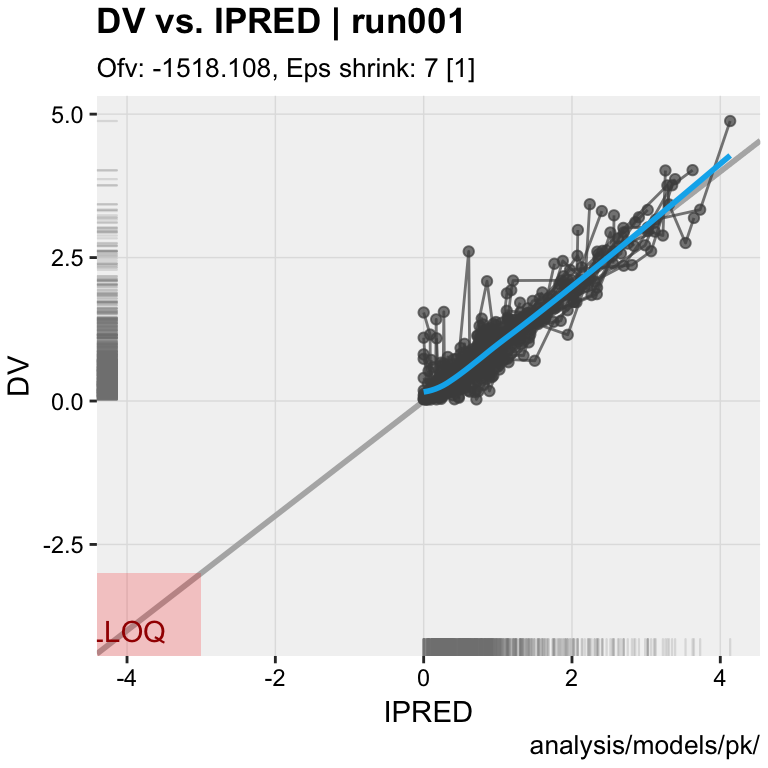
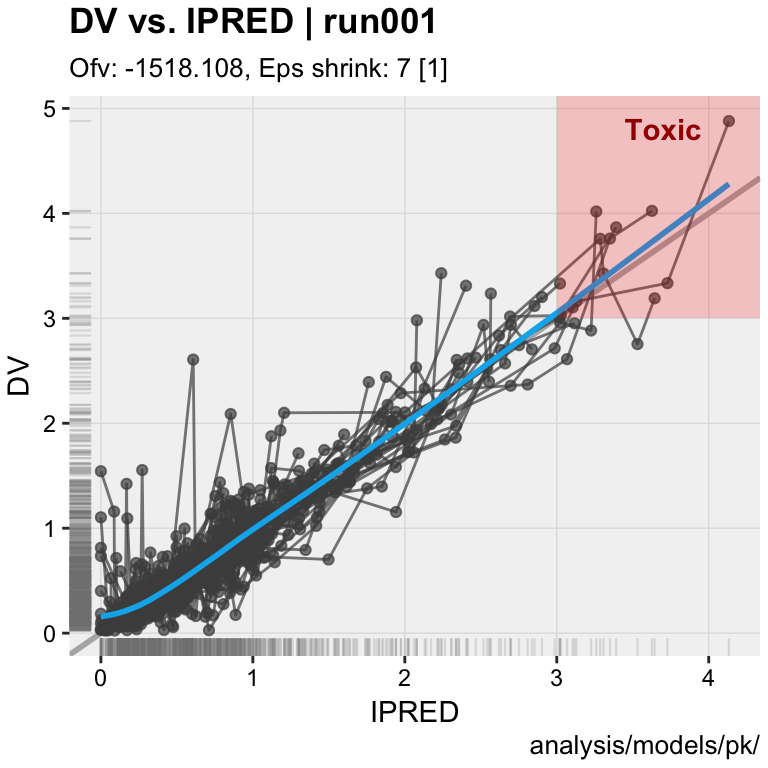
updated website

Changed region(s): [[0.0625, 0.125, 1.0, 0.9375], [0.0625, 0.0, 0.625, 0.1562], [0.9062, 0.8438, 0.9375, 0.9062]]

diff --git a/docs/articles/customize_plots.html b/docs/articles/customize_plots.html
@@ -204,13 +204,14 @@
 <div class="sourceCode"><pre class="sourceCode r"><code class="sourceCode r"><span class="kw"><a href="../reference/dv_vs_pred.html">dv_vs_ipred</a></span>(xpdb) +
 <span class="st">  </span><span class="kw">geom_rug</span>(<span class="dt">alpha =</span> <span class="fl">0.2</span>, <span class="dt">color =</span> <span class="st">'grey50'</span>,
            <span class="dt">sides =</span> <span class="st">'lb'</span>, <span class="dt">size =</span> <span class="fl">0.4</span>) +
-<span class="st">  </span><span class="kw">annotate</span>(<span class="dt">geom =</span> <span class="st">'text'</span>, 
+<span class="st">  </span><span class="kw">annotate</span>(<span class="dt">geom =</span> <span class="st">'text'</span>,
+           <span class="dt">fontface =</span> <span class="st">'bold'</span>,
            <span class="dt">color =</span> <span class="st">'darkred'</span>,
-           <span class="dt">label =</span> <span class="st">'LLOQ'</span>, <span class="dt">x =</span> -<span class="dv">4</span>, <span class="dt">y =</span> -<span class="dv">4</span>) +
+           <span class="dt">label =</span> <span class="st">'Toxic'</span>, <span class="dt">x =</span> <span class="fl">3.7</span>, <span class="dt">y =</span> <span class="fl">4.8</span>) +
 <span class="st">  </span><span class="kw">annotate</span>(<span class="dt">geom =</span> <span class="st">'rect'</span>,
            <span class="dt">alpha =</span> <span class="fl">0.2</span>, <span class="dt">fill =</span> <span class="st">'red'</span>,
-           <span class="dt">xmin =</span> -<span class="ot">Inf</span>, <span class="dt">xmax =</span> -<span class="dv">3</span>,
-           <span class="dt">ymin =</span> -<span class="ot">Inf</span>, <span class="dt">ymax =</span> -<span class="dv">3</span>)</code></pre></div>
+           <span class="dt">xmin =</span> <span class="dv">3</span>, <span class="dt">xmax =</span> <span class="ot">Inf</span>,
+           <span class="dt">ymin =</span> <span class="dv">3</span>, <span class="dt">ymax =</span> <span class="ot">Inf</span>)</code></pre></div>
 <p><img src="customize_plots_files/figure-html/demo%20layers-1.png" width="50%" style="display: block; margin: auto;"></p>
 </div>
 <div id="scales-options" class="section level3">
@@ -218,7 +219,7 @@
 <a href="#scales-options" class="anchor"></a>Scales options</h3>
 <p>The argument <code>log</code> allows to automatically log the relevant axes when set to <code>TRUE</code>. Additional arguments can be provided to the scales via the mapping by using the naming convention <code>xscale_xxx</code> or <code>yscale_xxx</code> where <code>xxx</code> is the name of a <code>ggplot2</code> scale argument such as <code>name</code>, <code>breaks</code>, <code>labels</code>, <code>expand</code>.</p>
 <div class="sourceCode"><pre class="sourceCode r"><code class="sourceCode r"><span class="kw"><a href="../reference/dv_vs_pred.html">dv_vs_ipred</a></span>(xpdb, 
-            <span class="dt">xscale_breaks =</span> <span class="kw">c</span>(-<span class="dv">4</span>, -<span class="dv">2</span>, <span class="dv">0</span>),
+            <span class="dt">xscale_breaks =</span> <span class="kw">c</span>(<span class="dv">1</span>, <span class="dv">2</span>, <span class="dv">3</span>),
             <span class="dt">xscale_labels =</span> <span class="kw">c</span>(<span class="st">'Low'</span>, <span class="st">'Med'</span>, <span class="st">'High'</span>),
             <span class="dt">xscale_expand =</span> <span class="kw">c</span>(<span class="fl">0.2</span>, <span class="dv">0</span>),
             <span class="dt">xscale_name =</span> <span class="st">'Individual model predictions'</span>)</code></pre></div>

diff --git a/docs/news/index.html b/docs/news/index.html
@@ -140,7 +140,7 @@
 <li>Handles multiple $PROB and tables with FIRSTONLY option</li>
 <li>Added option to import data manually as in xpose4 with <code><a href="../reference/manual_nm_import.html">manual_nm_import()</a></code>
 </li>
-<li>Added indexing of variable and convenience functions to edit it: <code>set_vars_type(), set_vars_label(), set_vars_units()</code>
+<li>Added indexing of variable and convenience functions to edit it: <code><a href="../reference/set_vars.html">set_vars_type()</a></code>, <code><a href="../reference/set_vars.html">set_vars_label()</a></code>, <code><a href="../reference/set_vars.html">set_vars_units()</a></code>
 </li>
 </ul>
 </div>
@@ -167,7 +167,7 @@
 <h3 class="hasAnchor">
 <a href="#access-xpdb" class="anchor"></a>Access xpdb</h3>
 <ul>
-<li>Added convenience functions to access data from xpdb <code>get_code</code>, <code>get_data</code>, <code><a href="../reference/get_file.html">get_file()</a></code>, <code><a href="../reference/get_summary.html">get_summary()</a></code>.</li>
+<li>Added convenience functions to access data from xpdb <code><a href="../reference/get_code.html">get_code()</a></code>, <code><a href="../reference/get_data.html">get_data()</a></code>, <code><a href="../reference/get_file.html">get_file()</a></code>, <code><a href="../reference/get_summary.html">get_summary()</a></code>.</li>
 <li>Added a method for xpdb to <code>dplyr::filter()</code>
 </li>
 </ul>
@@ -177,7 +177,7 @@
 <a href="#plots" class="anchor"></a>Plots</h3>
 <ul>
 <li>Changed <code>cwres_vs_idv</code>, type residual functions to more general <code><a href="../reference/res_vs_idv.html">res_vs_idv(res = 'CWRES')</a></code> functions</li>
-<li>Implemented/improved general ploting functions: <code>xplot_distrib</code>, <code>xplot_qq</code>, <code>xplot_scatter</code>, with convenience function to fetch data in xpdb <code>data_opt_set()</code>.</li>
+<li>Implemented/improved general plotting functions: <code><a href="../reference/xplot_distrib.html">xplot_distrib()</a></code>, <code><a href="../reference/xplot_qq.html">xplot_qq()</a></code>, <code><a href="../reference/xplot_scatter.html">xplot_scatter()</a></code>, with convenience function to fetch data in xpdb <code>data_opt_set()</code>.</li>
 <li>Implemented: <code><a href="../reference/pred_vs_idv.html">dv_vs_idv()</a></code>, <code><a href="../reference/pred_vs_idv.html">ipred_vs_idv()</a></code>, <code><a href="../reference/pred_vs_idv.html">pred_vs_idv()</a></code>, <code><a href="../reference/pred_vs_idv.html">dv_preds_vs_idv()</a></code>, <code><a href="../reference/ind_plots.html">ind_plots()</a></code>, <code><a href="../reference/vpc.html">vpc()</a></code>, <code><a href="../reference/distrib_plot.html">prm_distrib()</a></code>, <code><a href="../reference/distrib_plot.html">eta_distrib()</a></code>, <code><a href="../reference/distrib_plot.html">res_distrib()</a></code>, <code><a href="../reference/distrib_plot.html">cov_distrib()</a></code>, <code><a href="../reference/qq_plot.html">prm_qq()</a></code>, <code><a href="../reference/qq_plot.html">eta_qq()</a></code>, <code><a href="../reference/qq_plot.html">res_qq()</a></code>, <code><a href="../reference/qq_plot.html">cov_qq()</a></code>, <code><a href="../reference/minimization_plots.html">prm_vs_iteration()</a></code>, <code><a href="../reference/minimization_plots.html">grd_vs_iteration()</a></code>.</li>
 <li>Updated/renamed: <code><a href="../reference/gg_themes.html">theme_bw2()</a></code>, <code><a href="../reference/gg_themes.html">theme_readable()</a></code>, <code><a href="../reference/xp_themes.html">theme_xp_default()</a></code>, <code><a href="../reference/xp_themes.html">theme_xp_xpose4()</a></code>.</li>
 </ul>
